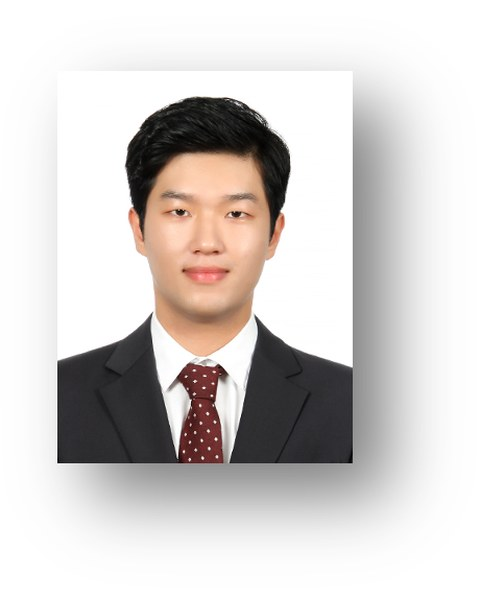
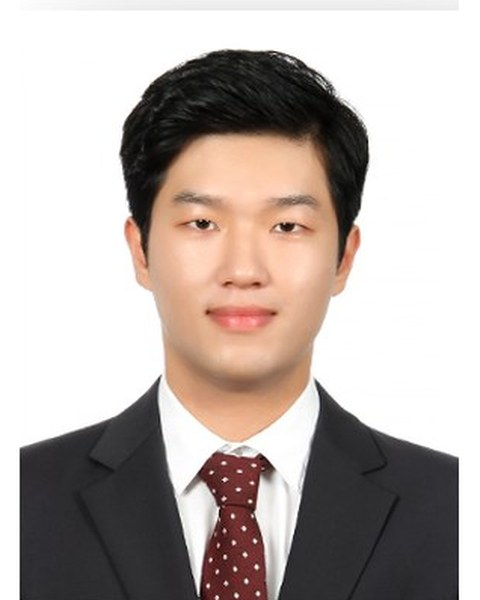
Fix image scaling; re-crop and centre the Bu-Gyeom Kim portrait
Responsive images:
- Add height:auto to the img,svg rule. The width/height attributes added
  for CLS act as presentational hints, so with only width:100% set in
  CSS the height hint stayed in force and aspect-ratio was ignored: the
  flagship image was locked at 576px tall and the portraits at 600px, so
  they never scaled down with the viewport. Boxes now hold 2.1:1 and 4:5
  from 390px to 1440px. The two rules that set height:100% explicitly
  (.pi-avatar img, .photo-banner img) have higher specificity and are
  unaffected.

Portrait:
- kim-bugyeom.jpg was a small ID photo pasted off-centre on a 480x600
  white canvas, with a drop shadow along its right and bottom edges, so
  the subject rendered smaller and offset next to the other three.
  Re-cropped to the photo itself (excluding border and shadow), padded
  symmetrically to 4:5 on white, and resampled to 480x600 to match.
  WebP regenerated.

Claude-Session: https://claude.ai/code/session_01QeFUR3xcoARhb2yx99nVQw

diff --git a/index.html b/index.html
@@ -66,7 +66,8 @@
   }
   h1,h2,h3,h4{ font-family:inherit; font-weight:700; letter-spacing:-.02em; text-wrap:balance; }
   a{ color:inherit }
-  img,svg{ max-width:100% }
+  /* width/height attrs are CLS hints only - height:auto lets aspect-ratio drive the box */
+  img,svg{ max-width:100%; height:auto }
 
   .wrap{ max-width:1120px; margin:0 auto; padding-left:28px; padding-right:28px }
   @media (max-width:640px){ .wrap{ padding-left:20px; padding-right:20px } }
